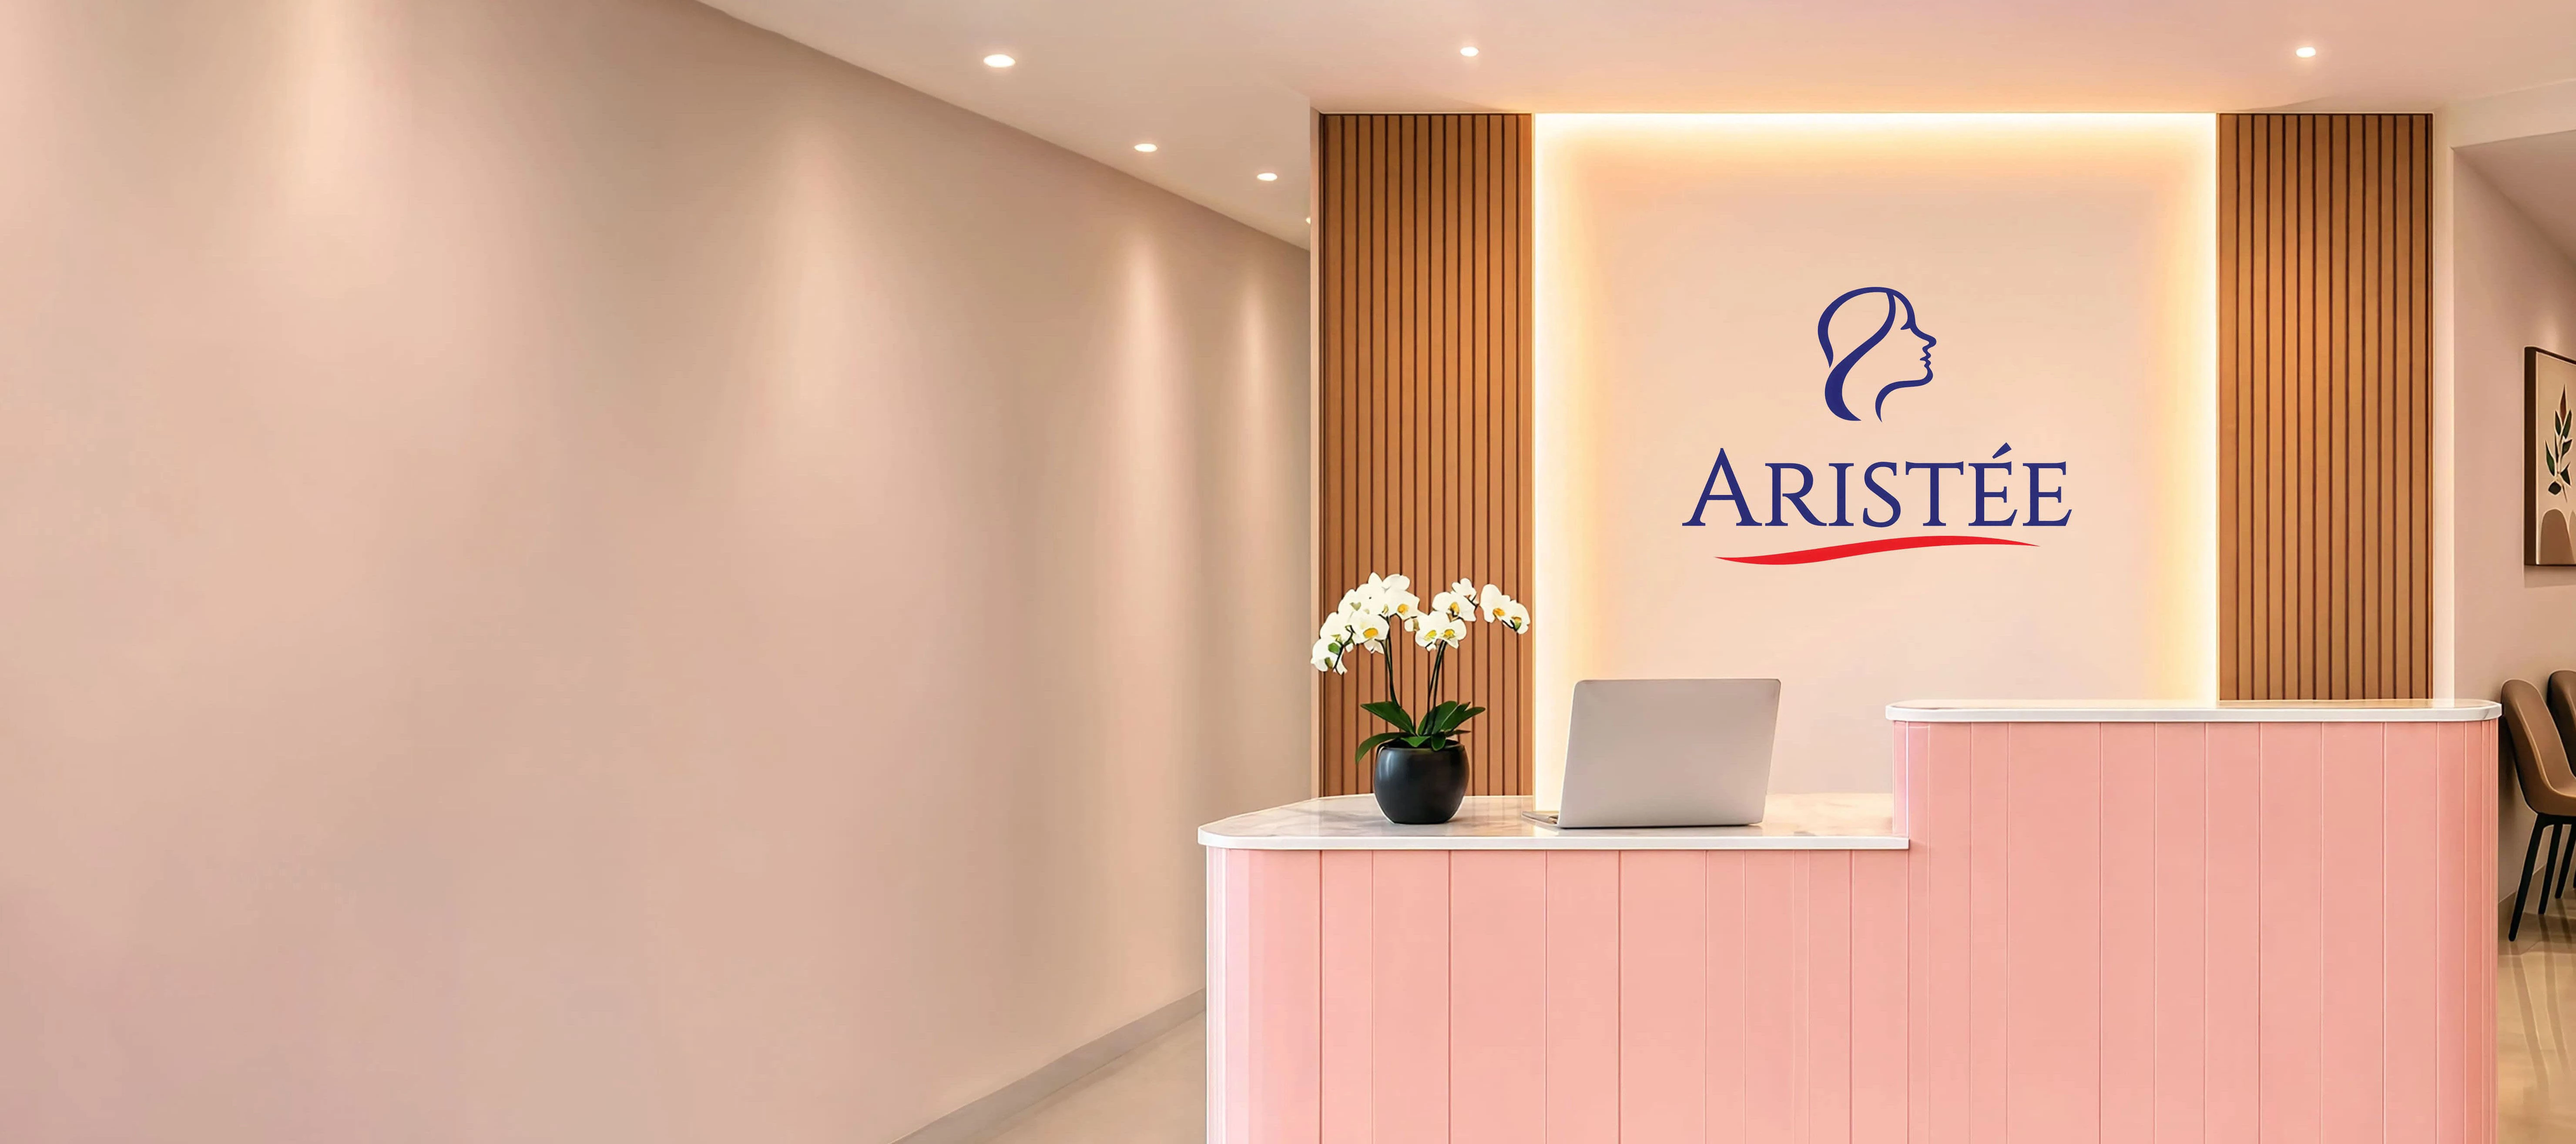
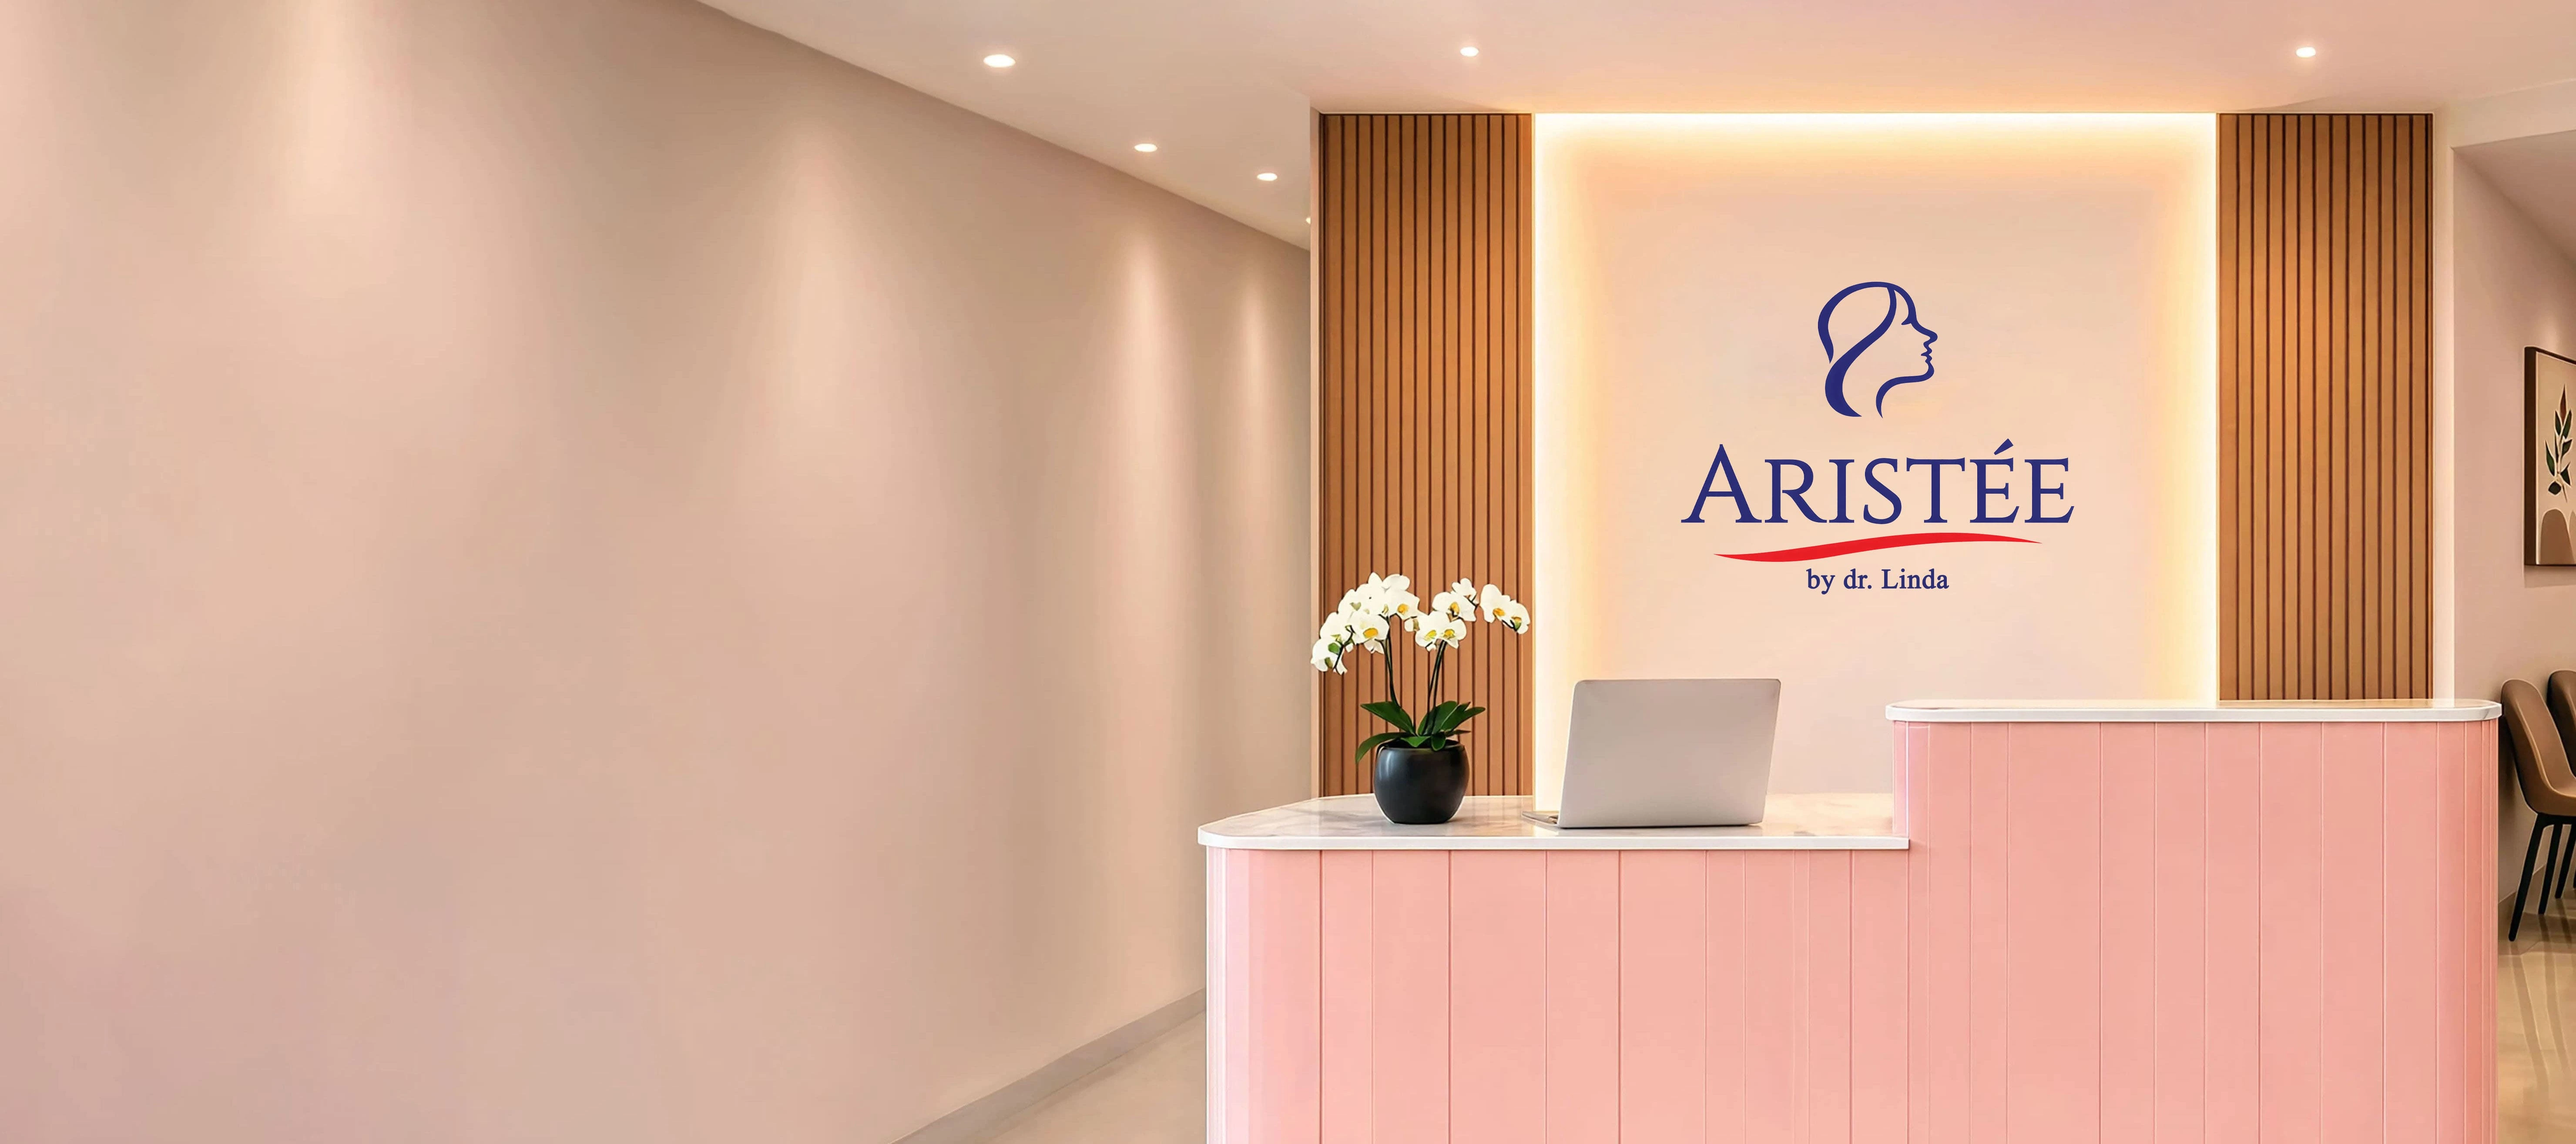
feat: update branding and social media links, enhance footer and navbar, and improve metadata descriptions

Changed region(s): [[0.6562, 0.3741, 0.8125, 0.53], [0.6875, 0.2494, 0.75, 0.343]]

diff --git a/components/general/footer.tsx b/components/general/footer.tsx
@@ -5,15 +5,19 @@ import leaf5 from '@/assets/images/leaf-5.webp'
 import logo from '@/assets/images/logo-white.webp'
 import {
   BUSINESS_NAME,
+  FACEBOOK_URL,
+  INSTAGRAM_URL,
+  LINKTREE_URL,
   MAP_DIRECTIONS_URL,
   SUPPORT_EMAIL,
   WHATSAPP_URL,
 } from '@/lib/constants'
-import { Contact, Mail, MapPin, Phone } from 'lucide-react'
+import { Mail, MapPin, Phone } from 'lucide-react'
 import Image from 'next/image'
 import Link from 'next/link'
 import { Button } from '../ui/button'
 import { FadeInItem, FadeInStagger } from '../ui/motion'
+import { FacebookIcon, InstagramIcon, LinktreeIcon } from './social-icons'
 
 export default function Footer() {
   return (
@@ -41,7 +45,7 @@ export default function Footer() {
         <FadeInItem className='col-span-2 space-y-5 md:col-span-4'>
           <Image
             src={logo}
-            alt='Klinik Kecantikan Aristée'
+            alt={BUSINESS_NAME}
             width={120}
             height={32}
             priority
@@ -52,15 +56,28 @@ export default function Footer() {
             yang aman, nyaman, dan berkualitas.
           </p>
           <div className='flex items-center gap-2'>
-            <Button size='icon' variant='outline'>
-              <Contact />
-            </Button>
-            <Button size='icon' variant='outline'>
-              <Contact />
-            </Button>
-            <Button size='icon' variant='outline'>
-              <Contact />
-            </Button>
+            {[
+              { label: 'Instagram', href: INSTAGRAM_URL, Icon: InstagramIcon },
+              { label: 'Facebook', href: FACEBOOK_URL, Icon: FacebookIcon },
+              { label: 'Linktree', href: LINKTREE_URL, Icon: LinktreeIcon },
+            ].map(({ label, href, Icon }) => (
+              <Button
+                key={label}
+                size='icon'
+                variant='accent-outline'
+                nativeButton={false}
+                render={
+                  <Link
+                    href={href}
+                    target='_blank'
+                    rel='noopener noreferrer'
+                    aria-label={label}
+                  />
+                }
+              >
+                <Icon />
+              </Button>
+            ))}
           </div>
         </FadeInItem>
         <FadeInItem className='col-span-1 md:col-span-2'>
@@ -79,10 +96,7 @@ export default function Footer() {
               <Link href='/#galeri'>Galeri</Link>
             </li>
             <li>
-              <Link href='/#operasional'>Operasional</Link>
-            </li>
-            <li>
-              <Link href='/#cta'>Kontak</Link>
+              <Link href='/#operasional'>Kontak</Link>
             </li>
           </ul>
         </FadeInItem>

diff --git a/components/general/social-icons.tsx b/components/general/social-icons.tsx
@@ -1,0 +1,53 @@
+import type { SVGProps } from 'react'
+
+export function InstagramIcon(props: SVGProps<SVGSVGElement>) {
+  return (
+    <svg
+      xmlns='http://www.w3.org/2000/svg'
+      viewBox='0 0 24 24'
+      fill='none'
+      stroke='currentColor'
+      strokeWidth={2}
+      strokeLinecap='round'
+      strokeLinejoin='round'
+      aria-hidden='true'
+      {...props}
+    >
+      <rect width='20' height='20' x='2' y='2' rx='5' ry='5' />
+      <path d='M16 11.37A4 4 0 1 1 12.63 8 4 4 0 0 1 16 11.37z' />
+      <line x1='17.5' x2='17.51' y1='6.5' y2='6.5' />
+    </svg>
+  )
+}
+
+export function FacebookIcon(props: SVGProps<SVGSVGElement>) {
+  return (
+    <svg
+      xmlns='http://www.w3.org/2000/svg'
+      viewBox='0 0 24 24'
+      fill='none'
+      stroke='currentColor'
+      strokeWidth={2}
+      strokeLinecap='round'
+      strokeLinejoin='round'
+      aria-hidden='true'
+      {...props}
+    >
+      <path d='M18 2h-3a5 5 0 0 0-5 5v3H7v4h3v8h4v-8h3l1-4h-4V7a1 1 0 0 1 1-1h3z' />
+    </svg>
+  )
+}
+
+export function LinktreeIcon(props: SVGProps<SVGSVGElement>) {
+  return (
+    <svg
+      xmlns='http://www.w3.org/2000/svg'
+      viewBox='0 0 24 24'
+      fill='currentColor'
+      aria-hidden='true'
+      {...props}
+    >
+      <path d='M13.51 5.85l3.43-3.51 2.27 2.3-3.55 3.4H21v3.2h-5.38l3.6 3.5-2.27 2.28L12 11.8l-4.95 4.92-2.27-2.28 3.6-3.5H3V8.04h5.34L4.79 4.64l2.27-2.3 3.43 3.51V1h3.02zm-3.02 7.9h3.02V23h-3.02z' />
+    </svg>
+  )
+}

diff --git a/app/layout.tsx b/app/layout.tsx
@@ -1,6 +1,7 @@
 import FloatingWhatsAppButton from '@/components/general/floating-whatsapp-button'
 import Footer from '@/components/general/footer'
 import Navbar from '@/components/general/navbar'
+import { BUSINESS_NAME } from '@/lib/constants'
 import { cn } from '@/lib/utils'
 import type { Metadata } from 'next'
 import { Lora, Outfit } from 'next/font/google'
@@ -14,9 +15,8 @@ const loraHeading = Lora({
 const outfit = Outfit({ subsets: ['latin'], variable: '--font-sans' })
 
 export const metadata: Metadata = {
-  title: 'Klinik Kecantikan Aristée | Healthy Skin, Confident You',
-  description:
-    'Klinik Kecantikan Aristée adalah klinik kecantikan yang menyediakan perawatan kulit yang aman, nyaman, dan efektif dengan dokter profesional. Kami berkomitmen untuk membantu Anda mencapai kulit sehat dan meningkatkan kepercayaan diri Anda.',
+  title: `${BUSINESS_NAME} | Healthy Skin, Confident You`,
+  description: `${BUSINESS_NAME} adalah klinik kecantikan yang menyediakan perawatan kulit yang aman, nyaman, dan efektif dengan dokter profesional. Kami berkomitmen untuk membantu Anda mencapai kulit sehat dan meningkatkan kepercayaan diri Anda.`,
 }
 
 export default function RootLayout({ children }: LayoutProps<'/'>) {

diff --git a/lib/constants.ts b/lib/constants.ts
@@ -1,6 +1,10 @@
-export const BUSINESS_NAME = 'Klinik Kecantikan Aristée'
+export const BUSINESS_NAME = 'Klinik Kecantikan Aristée by dr. Linda'
 export const WHATSAPP_NUMBER = '628212036489'
 export const WHATSAPP_URL = `https://wa.me/${WHATSAPP_NUMBER}`
+// TODO: replace with the clinic's real social profile URLs
+export const INSTAGRAM_URL = 'https://www.instagram.com/'
+export const FACEBOOK_URL = 'https://www.facebook.com/'
+export const LINKTREE_URL = 'https://linktr.ee/'
 export const SUPPORT_EMAIL = 'info@aristee.com'
 export const MAP_EMBED_URL =
   'https://www.google.com/maps/embed?pb=!1m18!1m12!1m3!1d3972.3959092211753!2d104.97788041123876!3d-5.35640445359913!2m3!1f0!2f0!3f0!3m2!1i1024!2i768!4f13.1!3m3!1m2!1s0x2e47330ae5fef4f5%3A0xe5d68ac7ff16a2f4!2sAristee%20Beauty%20Clinic!5e0!3m2!1sen!2sid!4v1786432135766!5m2!1sen!2sid'

diff --git a/components/landing/gallery.tsx b/components/landing/gallery.tsx
@@ -30,10 +30,10 @@ export default function Gallery() {
             <span className='text-accent'>Setiap Ruang</span>
           </h2>
           <p className='text-muted-foreground leading-relaxed'>
-            {BUSINESS_NAME} hadir untuk memberikan pengalaman perawatan kulit
-            yang aman, nyaman, dan berkualitas dengan sentuhan personal. Kami
-            percaya setiap kulit itu unik dan berhak mendapatkan perawatan
-            terbaik.
+            <strong>{BUSINESS_NAME}</strong> hadir untuk memberikan pengalaman
+            perawatan kulit yang aman, nyaman, dan berkualitas dengan sentuhan
+            personal. Kami percaya setiap kulit itu unik dan berhak mendapatkan
+            perawatan terbaik.
           </p>
           <ul className='space-y-2.5 mt-6 mb-8'>
             {CHECKLISTS.map((item, index) => (

diff --git a/components/landing/about.tsx b/components/landing/about.tsx
@@ -65,10 +65,10 @@ export default function About() {
           </FadeInItem>
           <FadeInItem>
             <p className='text-muted-foreground leading-relaxed'>
-              {BUSINESS_NAME} hadir untuk mendampingi perjalanan Anda dalam
-              merawat dan menjaga kesehatan kulit—di bawah supervisi dokter,
-              berlandaskan ilmu medis dan pendekatan yang tepat untuk kebutuhan
-              setiap kulit.
+              <strong>{BUSINESS_NAME}</strong> hadir untuk mendampingi
+              perjalanan Anda dalam merawat dan menjaga kesehatan kulit—di bawah
+              supervisi dokter, berlandaskan ilmu medis dan pendekatan yang
+              tepat untuk kebutuhan setiap kulit.
             </p>
           </FadeInItem>
           <FadeInItem>

diff --git a/components/landing/hero.tsx b/components/landing/hero.tsx
@@ -1,6 +1,6 @@
 'use client'
 
-import altHeroBackground from '@/assets/images/alt-bg-hero.webp'
+import recepsionist from '@/assets/images/recepsionist.webp'
 import heroBackground from '@/assets/images/bg-hero.webp'
 import leaf1 from '@/assets/images/leaf-1.webp'
 import leaf5 from '@/assets/images/leaf-5.webp'
@@ -29,7 +29,7 @@ export default function Hero() {
       </div>
       <div className='absolute inset-0 top-1/2 block sm:hidden'>
         <Image
-          src={altHeroBackground}
+          src={recepsionist}
           alt={BUSINESS_NAME}
           fill
           className='object-cover object-center grayscale-20'

diff --git a/components/general/navbar.tsx b/components/general/navbar.tsx
@@ -1,6 +1,7 @@
 'use client'
 
 import logo from '@/assets/images/logo-ori.webp'
+import { BUSINESS_NAME } from '@/lib/constants'
 import { cn } from '@/lib/utils'
 import { Menu, Phone, X } from 'lucide-react'
 import {
@@ -58,7 +59,7 @@ export default function Navbar() {
             <Link href='/'>
               <Image
                 src={logo}
-                alt='Klinik Kecantikan Aristée'
+                alt={BUSINESS_NAME}
                 width={120}
                 height={32}
                 priority

diff --git a/app/perawatan/page.tsx b/app/perawatan/page.tsx
@@ -13,8 +13,7 @@ import Image from 'next/image'
 
 export const metadata: Metadata = {
   title: `Semua Perawatan | ${BUSINESS_NAME}`,
-  description:
-    'Katalog lengkap perawatan kulit di Klinik Kecantikan Aristée: facial, acne, pigmentasi, rejuvenation, dan perawatan area khusus.',
+  description: `Katalog lengkap perawatan kulit di ${BUSINESS_NAME}: facial, acne, pigmentasi, rejuvenation, dan perawatan area khusus.`,
 }
 
 function groupByCategory(treatments: Treatment[]) {
